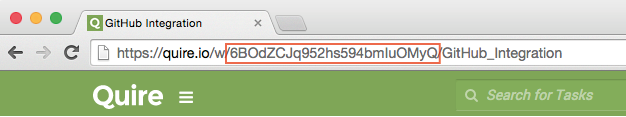
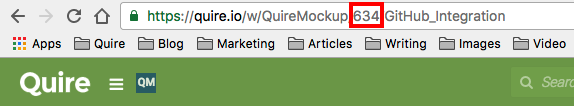
modify github post

diff --git a/_site/p/Hello-GitHub-We-are-Quire.html b/_site/p/Hello-GitHub-We-are-Quire.html
@@ -274,16 +274,16 @@
 
 <p>Find the ID for this task in the url bar.</p>
 
-<div style="max-width: 625px; max-height: 101px; margin: 0 auto;">
+<div style="max-width: 574px; max-height: 106px; margin: 0 auto;">
 
 <p><img src="/blog/images/2015-06-29-Github-Integration/7.png" alt="My helpful screenshot" /></p>
 
 </div>
 
-<p>You enter a # and the first 4 or more characters of the task ID in the commit message.</p>
+<p>You enter a # and the task ID in the commit message.</p>
 
 <p>For example:</p>
-<div class="highlight"><pre><code class="language-text" data-lang="text">Write #6BOd.
+<div class="highlight"><pre><code class="language-text" data-lang="text">Write #634.
 </code></pre></div>
 <p>When you make a reference, we will add a comment to the task like this:</p>
 
@@ -306,7 +306,7 @@
 <p>You can also add a message at the end of your commit.</p>
 
 <p>For example:</p>
-<div class="highlight"><pre><code class="language-text" data-lang="text">Edit #6BOd added more description.
+<div class="highlight"><pre><code class="language-text" data-lang="text">Edit #634 added more description.
 </code></pre></div>
 <p>Then, it will appear like this in the task’s comment:</p>
 
@@ -321,7 +321,7 @@
 <p>Follow the same steps for referencing a task, and simply add “and” in your commit message.</p>
 
 <p>For example:</p>
-<div class="highlight"><pre><code class="language-text" data-lang="text">Edit #6BOd, #7BOd and #8BOd paraphrased a few sentences.
+<div class="highlight"><pre><code class="language-text" data-lang="text">Edit #634, #635 and #636 paraphrased a few sentences.
 </code></pre></div>
 <p>It will look like this in all three tasks:</p>
 
@@ -343,16 +343,16 @@
 
 <p>Find the task ID in the url bar.</p>
 
-<div style="max-width: 626px; max-height: 117px; margin: 0 auto;">
+<div style="max-width: 574px; max-height: 106px; margin: 0 auto;">
 
 <p><img src="/blog/images/2015-06-29-Github-Integration/13.png" alt="My helpful screenshot" /></p>
 
 </div>
 
-<p>Use any of the keywords below followed by a # and the first 4 or more characters of the task ID in your commit message.</p>
+<p>Use any of the keywords below followed by a # and the task ID in your commit message.</p>
 
 <p>For example:</p>
-<div class="highlight"><pre><code class="language-text" data-lang="text">Close #6BOd article finalized.
+<div class="highlight"><pre><code class="language-text" data-lang="text">Close #634 article finalized.
 </code></pre></div>
 <p>Keywords:</p>
 <div class="highlight"><pre><code class="language-text" data-lang="text">Complete/Completes/Completed
@@ -381,7 +381,7 @@ Resolve/Resolves/Resolved
 <p>Follow the same steps for closing a task, and add “and” in your commit message.</p>
 
 <p>For example:</p>
-<div class="highlight"><pre><code class="language-text" data-lang="text">Close #7BOd and #8BOd articles finalized.
+<div class="highlight"><pre><code class="language-text" data-lang="text">Close #635 and #636 articles finalized.
 </code></pre></div>
 <p>When you complete these two tasks, we will add the same comment to both tasks:</p>
 
